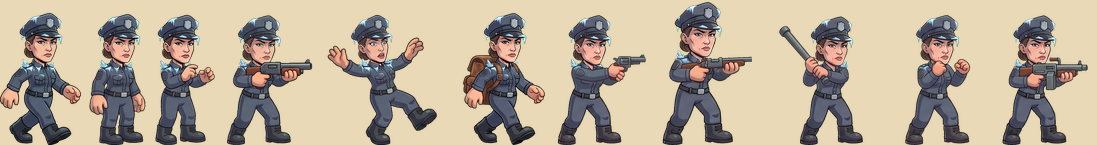
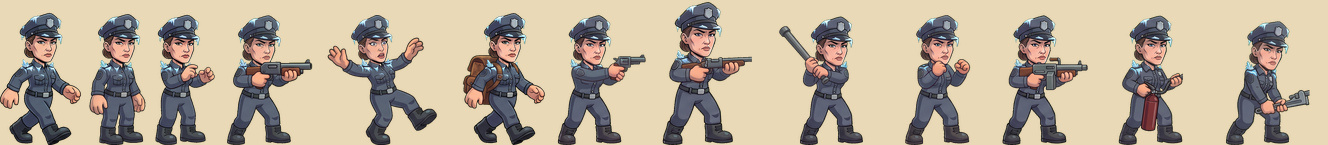
Add legend extinguisher and repair sheets for all 11 legends
Claude-Session: https://claude.ai/code/session_01A4TFeiFZYtvFdAABaD22tt

diff --git a/docs/art/ART-LIST.md b/docs/art/ART-LIST.md
@@ -459,6 +459,7 @@ Updated by the art session as batches land. "Shows up on its own" means the code
 | 2026-09-28 | V7 wide training room walls: the seven training rooms at `w2` and `w3`, levels 1 to 3 (42) | `room_<type>` | Shows up on its own (`roomWall()`) |
 | 2026-09-28 | §2b tool sheets: `fight_extinguish` and `fight_repair` for male and female residents (4), M9 Halcyon Fizz bottle icon (1) | `resident_m`, `resident_f`, `ui_icons` | Needs hookup (animation keys `fight_extinguish`, `fight_repair`; icon `fizz`) |
 | 2026-09-28 | Fixes: quarters level 1 (single, w2, w3) redone with a wood plank floor and a flat rug (the rug read as hanging on the wall); toolbar/UI icons redone clean: `residents`, `goals`, `deep_day_one`, `ruined`, `room`, and `fizz` without an outer glow | `room_quarters`, `ui_icons` | Shows up on its own |
+| 2026-09-28 | Legend tool sheets: `fight_extinguish` and `fight_repair` for all 11 legends (22), same 12-frame template as the resident sheets | `legend_<id>` (all 11) | Needs hookup (animation keys `fight_extinguish`, `fight_repair` per legend) |
 
 Notes on the wide walls: `w2` is generated at 21:9 from the level's single painting, then cropped to 2:1. `w3` is generated at 4:1 from that level's `w2`, then cropped to 3:1. The image tool sometimes leaves a soft, ghosted patch at 4:1; those were repaired with an edit pass or by copying a sharp neighbour, and a few small soft spots remain at the edges of `quarters` level 1 and 2 `w3` and `canteen` level 2 `w3`.
 

diff --git a/docs/art/SPRITE-HANDOFF.md b/docs/art/SPRITE-HANDOFF.md
@@ -237,3 +237,4 @@ We need commercial use rights with no attribution or exclusivity strings. Record
 | Wide training room walls (7 types x 3 levels x w2/w3) | artlist.io, Nano Banana 2 I2I 2K | AI Suite plan (credits) | 2026-09-28 | ☐ |
 | Resident tool sheets (extinguisher, repair) and Fizz bottle icon | artlist.io, Nano Banana 2 I2I 2K | AI Suite plan (credits) | 2026-09-28 | ☐ |
 | Quarters level 1 floor fix and six redone UI icons | artlist.io, Nano Banana 2 I2I 2K | AI Suite plan (credits) | 2026-09-28 | ☐ |
+| Legend extinguisher and repair sheets (22) | artlist.io, Nano Banana 2 I2I 2K | AI Suite plan (credits) | 2026-09-28 | ☐ |
